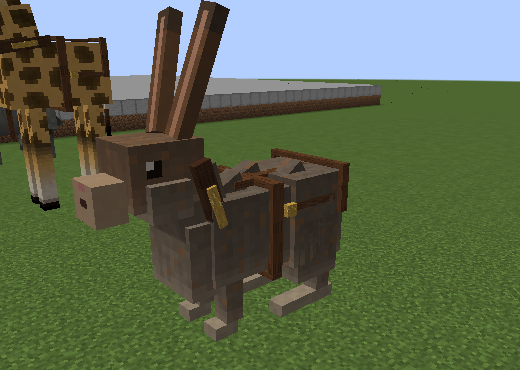
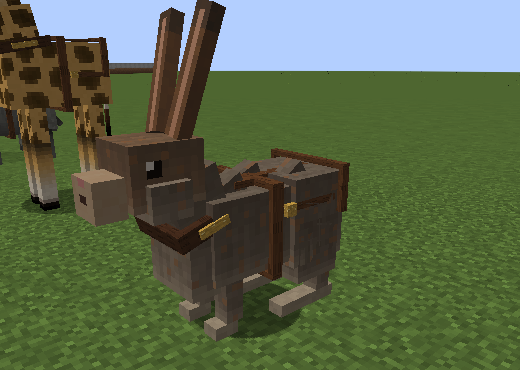
Harness: Rhosgobel rabbit's collar rings its neck (around its length, not over it)
Claude-Session: https://claude.ai/code/session_011VYsPWup3pJRnBTk7HQgu1

diff --git a/harness/tools/fits.py b/harness/tools/fits.py
@@ -48,7 +48,10 @@ ANIMALS = {
 # Per animal, for bodies the general layout doesn't suit: "breast" (a breast collar across the chest instead of a
 # neck collar, for an animal with no neck), "belly": False (no strap under the belly), "breeching": False,
 # "girth_at" (share of the body from its rear). None needed now (LOTR's sitting rabbit needed them all).
-OPTIONS = {}
+OPTIONS = {
+    # its neck cube is near cubic: ring it round its length (y), not toward the body
+    "lotr_rhosgobel_rabbit": {"collar_axis": 1},
+}
 PROUD, BAND, STRAP = 0.4, 0.9, 0.6  # pixels: gap over the hide, band thickness, side strap thickness
 
 
@@ -256,7 +259,9 @@ def fit(name, model, body_name, neck_name, front, hind, scale):
         toward = neck.dir_from_root([a - b for a, b in zip(neck.to_root(centre), body_centre)])
         # the neck's length: its cube's long side if it has one, else the way from the body to it
         longest = max(range(3), key=lambda i: size[i])
-        if all(size[longest] >= 1.3 * size[i] for i in range(3) if i != longest):
+        if "collar_axis" in opts:
+            along = opts["collar_axis"]
+        elif all(size[longest] >= 1.3 * size[i] for i in range(3) if i != longest):
             along = longest
         else:
             along = max(range(3), key=lambda i: abs(toward[i]))
